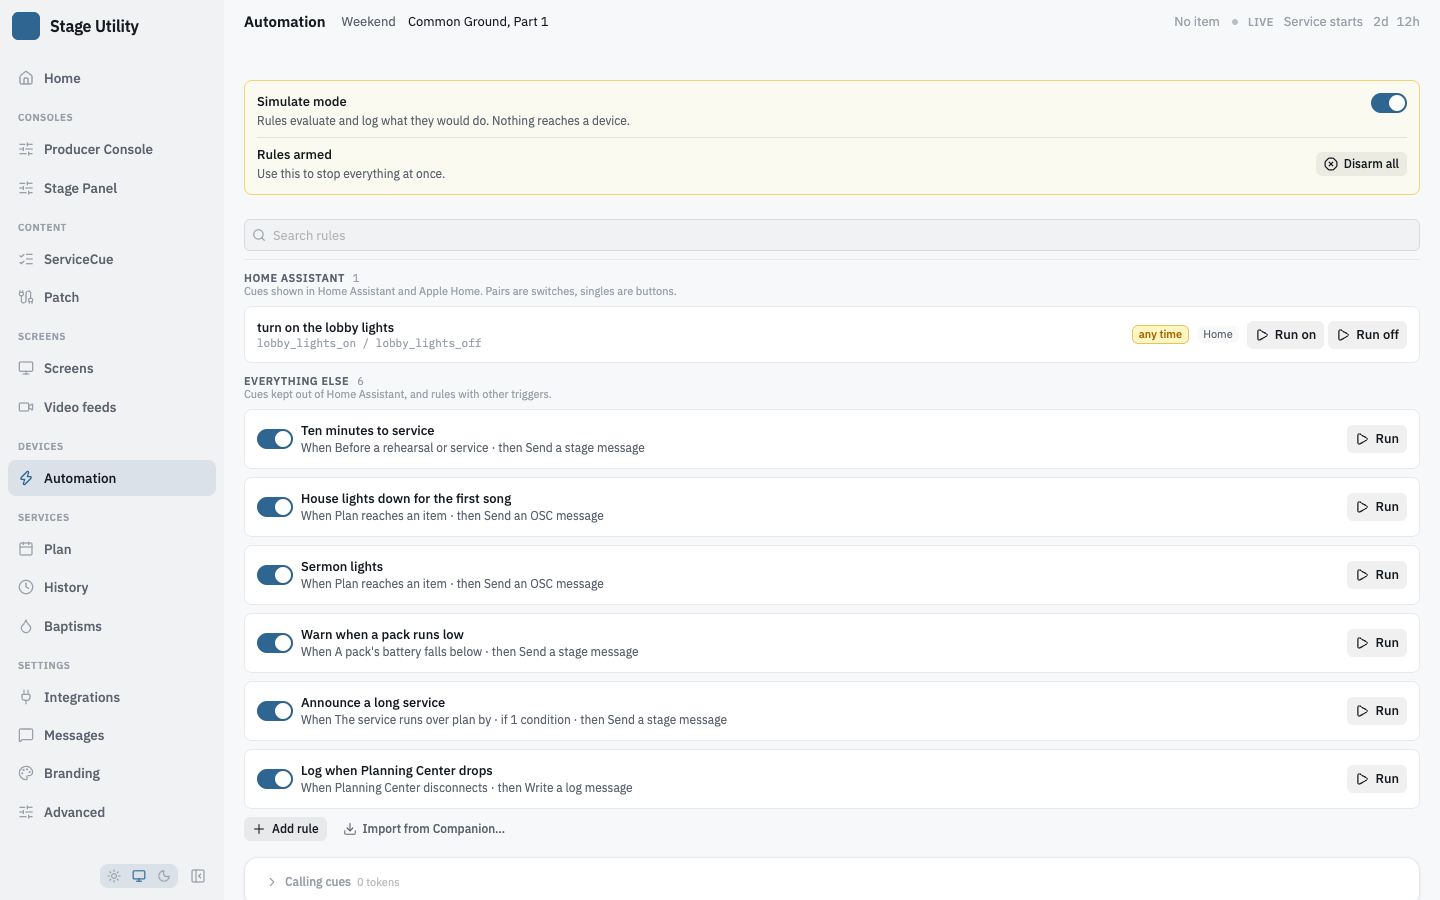
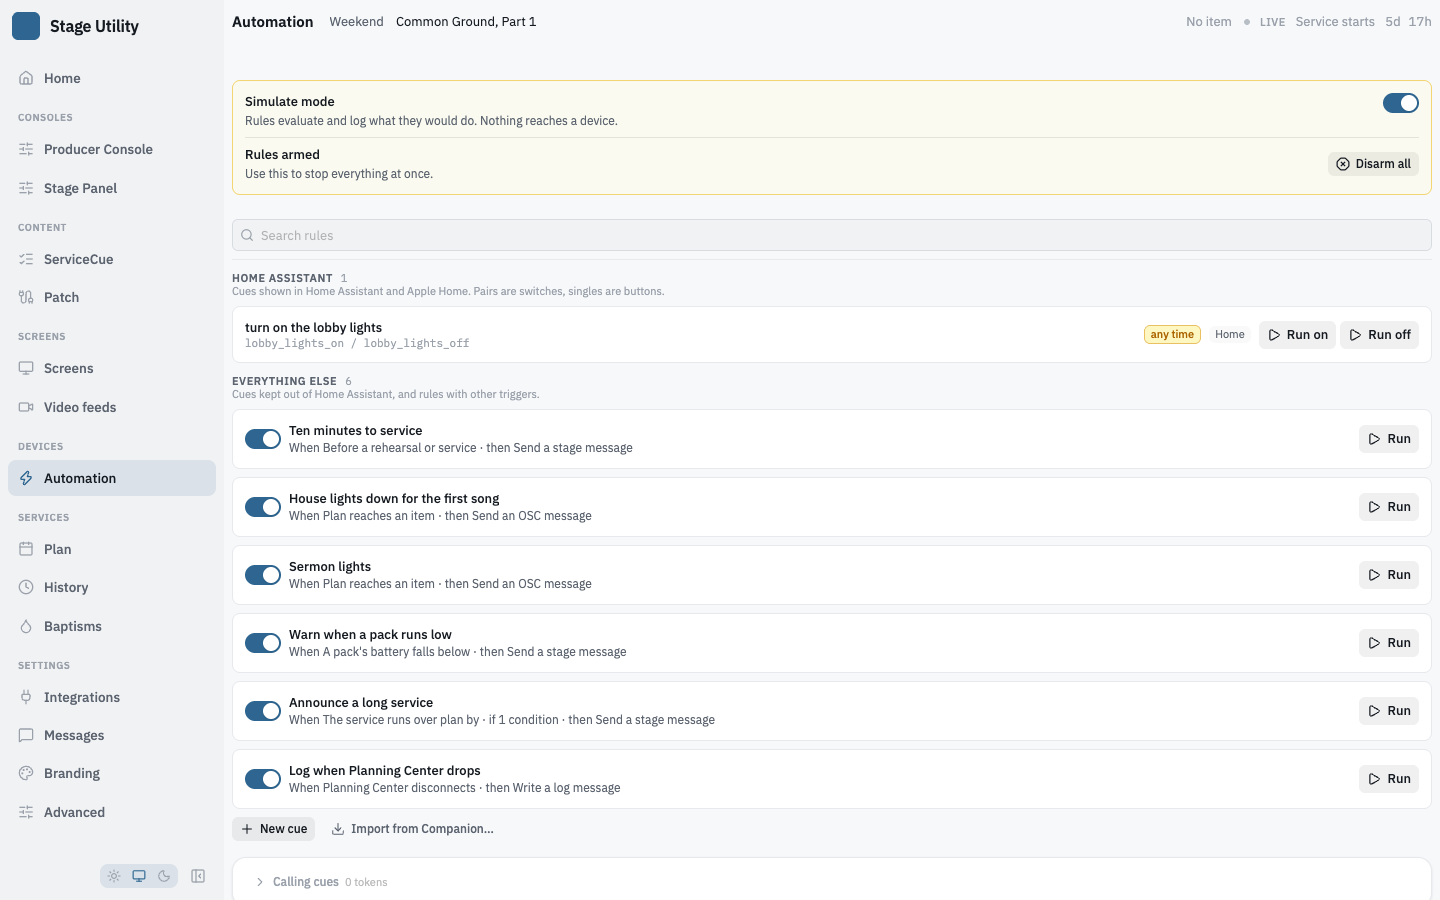
docs: the 1.27.0 release overview, and the Automation screenshot shows New cue

diff --git a/docs/release-notes/1.27.0.md b/docs/release-notes/1.27.0.md
@@ -1,0 +1,34 @@
+Cues are easier to make. New cue on the Automation page is a step-by-step dialog
+that saves nothing until Create, and a manual cue, one that fires only when
+someone presses it, is its own kind with no When or If. It can put a button for
+itself on any console as it is made. In the layout editor the Action and Cue
+buttons are one Button that either fires a cue or runs an action.
+
+The patch sheet is built for a desk: the volunteer view uses the whole width and
+the editor is a spreadsheet. Branding is a page of cards with its own tab and
+home-screen icon, the ProVideoPlayer widget can show only the countdown, and the
+Mac output helper loads screens from another machine.
+
+## Changed
+
+- Add rule on the Automation page is now New cue, and nothing is saved until Create.
+- The layout editor's Action button and Cue button are one Button; its Does setting switches between them, and saved buttons are unchanged.
+- A Button that fires a cue obeys Simulate mode, Disarm and the cue's cooldown, and says "Simulated: nothing was sent" when Simulate stopped it.
+- ProVideoPlayer now's Compact switch is a Layout choice: Full, Compact or Countdown only. A widget saved as Compact stays Compact.
+- Pages sit 8px from the sidebar, and Screens previews run to the edges of their cards.
+- A settings file that cannot be read leaves the server running on its defaults, refuses saves to that file until a restart, and names it on /log.
+- A released screen can be set up on another server. A Mac output helper, macOS or Windows kiosk installed before this release must be reinstalled before it is released.
+- A ServiceCue rundown's back arrow returns to the page it was opened from, and Home's Open History opens History inside the app.
+
+## Improved
+
+- The patch view lays out by the width it has: a side column with this week and the changes, full-width tables, or the stacked phone layout.
+- The patch editor has 32px spreadsheet rows, hop chips in one line, and Devices and Weekly assignment beside the sheet. Printing leaves only the sheet.
+- Branding can set a tab and home-screen icon, made from one square image and a background colour; the browser tab and phones use it, and the home-screen label follows the app name.
+- ProVideoPlayer now can show only the time left, as large as the widget allows, and can turn it amber then red near the end of a clip.
+- The Home SPL card's right-click menu chooses the Smaart metric it reads.
+- The Mac output helper loads pages from another machine under its one Local Network permission, shows "Can't reach" instead of a browser error page, and `--new-token` replaces an output's token.
+- In Safari, a video feed starts the moment it can play.
+- Recording keeps going when a history or raw file cannot be read, holding its saves beside the file instead of replacing it.
+- The same toast shown again replaces the one on screen instead of stacking.
+- History's Recalculate and counted switch say why the server refused.
